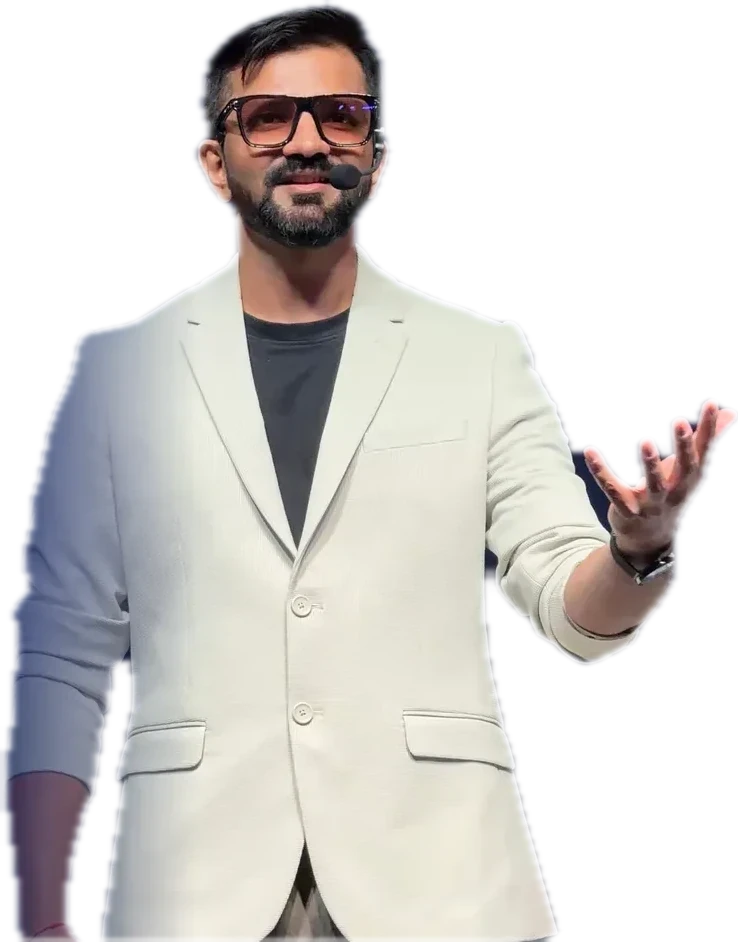
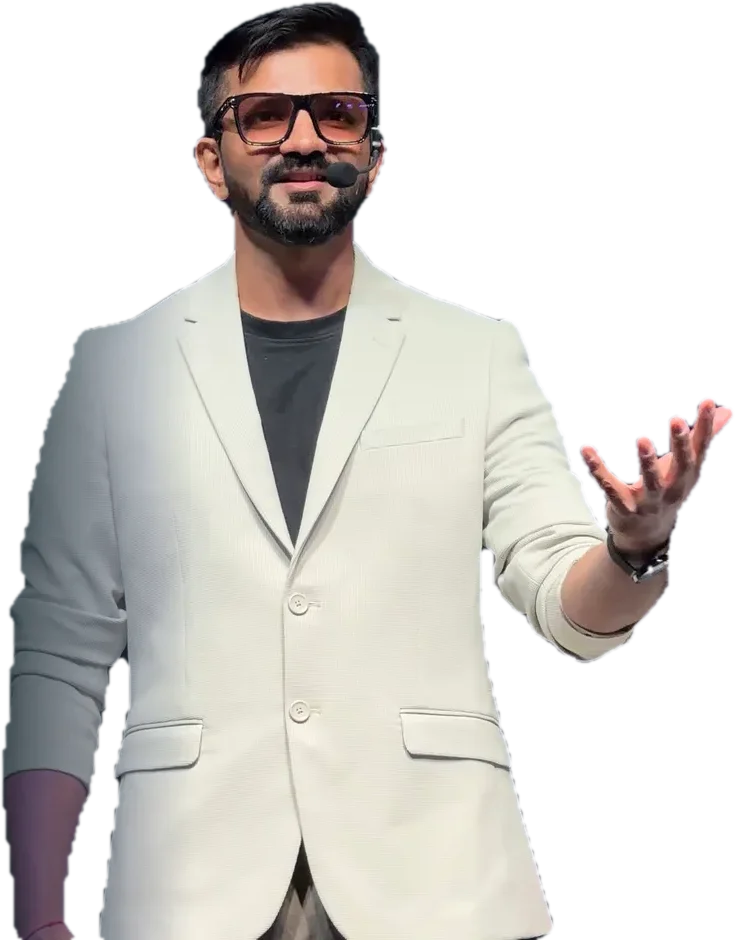
Try: clean white-blazer cut-out on the cover; event cut-outs placed beside him, never over him (local only)

diff --git a/assets/css/main.css b/assets/css/main.css
@@ -976,7 +976,7 @@ body.on-cover .site-header:not(.is-scrolled) .menu-btn { background: rgb(243 237
   .cover__stamps li { text-align: right; }
   .cover__hint { position: absolute; right: var(--gutter); top: calc(var(--band) + var(--cv-s3) + 38px); max-width: 15rem; margin: 0; text-align: right; font-size: var(--cv-s0); }
 
-  .cover__host { position: absolute; left: 50%; bottom: 0; translate: -50% 0; margin: 0; height: min(75svh, 56vw); width: auto; aspect-ratio: 738 / 942; }
+  .cover__host { position: absolute; left: 50%; bottom: 0; translate: -50% 0; margin: 0; height: min(75svh, 56vw); width: auto; aspect-ratio: 735 / 940; }
   .js .cover-loading .cover__host { translate: -50% 5%; }
   .cover__hostlink, .cover__hostlink img { height: 100%; width: auto; }
   .cover__hostlink .cover__label { bottom: 26px; }
@@ -984,11 +984,16 @@ body.on-cover .site-header:not(.is-scrolled) .menu-btn { background: rgb(243 237
 
   .cover__pick { position: absolute; inset: auto var(--gutter) 0; height: 47svh; margin: 0; pointer-events: none; }
   .cover__doors { display: block; position: absolute; inset: 0; }
-  .cover__doors li { position: absolute; bottom: 0; width: 20%; height: 84%; pointer-events: auto; }
-  .cover__doors li:nth-child(1) { left: 0; }
-  .cover__doors li:nth-child(2) { left: 17.5%; height: 90%; }
-  .cover__doors li:nth-child(3) { right: 17.5%; height: 90%; }
-  .cover__doors li:nth-child(4) { right: 0; }
+  /* the four events stand either side of him, placed from his edges (never over him); main.js shrinks them (--ds) when a screen is too narrow for both */
+  .cover { --hw: calc(min(75svh, 56vw) * .391); --gap: 14px; }
+  .cover__doors li { position: absolute; bottom: 0; width: auto; height: calc(84% * var(--ds, 1)); aspect-ratio: var(--ar); pointer-events: auto; }
+  .cover__doors li:nth-child(1) { --ar: 597 / 914; right: calc(50% + var(--hw) + var(--gap) + var(--o1, 14svh)); }
+  .cover__doors li:nth-child(2) { --ar: 529 / 987; right: calc(50% + var(--hw) + var(--gap)); height: calc(90% * var(--ds, 1)); z-index: 1; }
+  .cover__doors li:nth-child(3) { --ar: 398 / 1033; left: calc(50% + var(--hw) + var(--gap)); height: calc(90% * var(--ds, 1)); z-index: 1; }
+  .cover__doors li:nth-child(4) { --ar: 511 / 977; left: calc(50% + var(--hw) + var(--gap) + var(--o4, 10svh)); }
+  .cover__doors li:nth-child(1) .cover__label { left: 0; translate: none; }
+  .cover__doors li:nth-child(4) .cover__label { left: auto; right: 0; translate: none; }
+  .cover--stagger .cover__doors li:is(:nth-child(1), :nth-child(4)) .cover__label { bottom: 72px; }
   .cover__doors li:nth-child(n) .cover__door { height: 100%; background: none; overflow: visible; border-radius: 0; }
   .cover__door img { bottom: 0; height: 100%; }
   .cover__door .cover__label { bottom: 26px; }

diff --git a/assets/js/main.js b/assets/js/main.js
@@ -373,6 +373,31 @@
       let size = (room / line) * 100;
       size = wide.matches ? Math.min(size * 0.965, innerHeight * 0.24) : size * 0.9;
       cover.style.setProperty('--name-size', `${size.toFixed(1)}px`);
+      // the events either side of him: placed from his edges, spaced apart when there is room,
+      // tucked behind each other when there is less, and only shrunk (--ds) when even that does not fit
+      if (wide.matches) {
+        const H = innerHeight;
+        const hw = Math.min(0.75 * H, 0.56 * innerWidth) * 0.391;
+        const side = $('.cover__pick', cover).getBoundingClientRect().width / 2 - hw - 14;
+        const w = [0.84 * 0.47 * H * 597 / 914, 0.9 * 0.47 * H * 529 / 987, 0.9 * 0.47 * H * 398 / 1033, 0.84 * 0.47 * H * 511 / 977];
+        // ...and their heads stay below the Book / Watch buttons and the "choose your event" line
+        const above = Math.max(...['.cover__actions', '.cover__hint'].map((q) => { const e = $(q, cover); return e ? e.offsetTop + e.offsetHeight : 0; }));
+        const room = cover.offsetHeight - above - 18;
+        const ds = Math.min(1, side / (w[0] + 0.62 * w[1]), side / (w[3] + 0.62 * w[2]), room / (0.9 * 0.47 * H));
+        const place = (outer, inner) => Math.max(0.62 * inner * ds, Math.min(inner * ds + 16, side - outer * ds));
+        cover.style.setProperty('--ds', ds.toFixed(3));
+        cover.style.setProperty('--o1', `${place(w[0], w[1]).toFixed(1)}px`);
+        cover.style.setProperty('--o4', `${place(w[3], w[2]).toFixed(1)}px`);
+        // two labels meeting: lift the outer ones above the inner ones
+        cover.classList.toggle('cover--stagger', false);
+        const lab = $$('.cover__door .cover__label', cover).map((l) => l.getBoundingClientRect());
+        cover.classList.toggle('cover--stagger', lab[0].right > lab[1].left - 8 || lab[2].right > lab[3].left - 8);
+        // the mic beside his head never runs into the "11+ years" stamp
+        const mic = $('.cover__mic', cover);
+        mic.style.marginLeft = '0px';
+        const clash = mic.getBoundingClientRect().right + 12 - $('.cover__stamps', cover).getBoundingClientRect().left;
+        if (clash > 0) mic.style.marginLeft = `${-Math.min(clash, 70).toFixed(0)}px`;
+      }
     };
     fit();
     addEventListener('resize', fit);

diff --git a/index.html b/index.html
@@ -33,7 +33,7 @@
   <link rel="preload" href="./assets/fonts/playfair-latin.woff2" as="font" type="font/woff2" crossorigin>
   <link rel="preload" href="./assets/fonts/playfair-italic-latin.woff2" as="font" type="font/woff2" crossorigin>
   <link rel="preload" as="image" href="./assets/img/cover/love-blazer.webp" fetchpriority="high">
-  <link rel="stylesheet" href="./assets/css/main.css?v=74a49363">
+  <link rel="stylesheet" href="./assets/css/main.css?v=b268ade3">
   <script>document.documentElement.classList.add('js');setTimeout(function(){var b=document.body;if(b&&b.classList.contains('cover-loading')){b.classList.remove('cover-loading');var o=document.querySelector('[data-cover-opener]');if(o)o.style.display='none';}},6000)</script>
 
   <script type="application/ld+json">
@@ -170,7 +170,7 @@
 
       <div class="cover__host" data-cover-host>
         <a class="cover__hostlink" href="#about" aria-label="Meet RJ Love">
-          <img src="./assets/img/cover/love-blazer.webp" width="738" height="942" fetchpriority="high" decoding="async"
+          <img src="./assets/img/cover/love-blazer.webp" width="735" height="940" fetchpriority="high" decoding="async"
                alt="RJ Love Shah in a white blazer with a headset microphone, one hand open towards the audience">
           <span class="cover__label">Meet RJ Love</span>
         </a>
@@ -791,6 +791,6 @@
 
   <script src="https://cdnjs.cloudflare.com/ajax/libs/gsap/3.12.5/gsap.min.js" defer></script>
   <script src="https://cdnjs.cloudflare.com/ajax/libs/gsap/3.12.5/ScrollTrigger.min.js" defer></script>
-  <script src="./assets/js/main.js?v=27999cad" defer></script>
+  <script src="./assets/js/main.js?v=871b8c63" defer></script>
 </body>
 </html>

diff --git a/events/navratri/index.html b/events/navratri/index.html
@@ -23,7 +23,7 @@
   <meta name="twitter:card" content="summary_large_image">
   <meta name="twitter:image" content="https://www.rjloveshah.com/assets/img/share-rj-love-shah-3.jpg">
   <link rel="preload" href="../../assets/fonts/playfair-latin.woff2" as="font" type="font/woff2" crossorigin>
-  <link rel="stylesheet" href="../../assets/css/main.css?v=74a49363">
+  <link rel="stylesheet" href="../../assets/css/main.css?v=b268ade3">
   <script type="application/ld+json">{"@context":"https://schema.org","@type":"BreadcrumbList","itemListElement":[{"@type":"ListItem","position":1,"name":"Home","item":"https://www.rjloveshah.com/"},{"@type":"ListItem","position":2,"name":"Reliance Navratri","item":"https://www.rjloveshah.com/events/navratri/"}]}</script>
 </head>
 <body class="event-page on-cover">

diff --git a/events/corporate/index.html b/events/corporate/index.html
@@ -23,7 +23,7 @@
   <meta name="twitter:card" content="summary_large_image">
   <meta name="twitter:image" content="https://www.rjloveshah.com/assets/img/share-rj-love-shah-3.jpg">
   <link rel="preload" href="../../assets/fonts/playfair-latin.woff2" as="font" type="font/woff2" crossorigin>
-  <link rel="stylesheet" href="../../assets/css/main.css?v=74a49363">
+  <link rel="stylesheet" href="../../assets/css/main.css?v=b268ade3">
   <script type="application/ld+json">{"@context":"https://schema.org","@type":"BreadcrumbList","itemListElement":[{"@type":"ListItem","position":1,"name":"Home","item":"https://www.rjloveshah.com/"},{"@type":"ListItem","position":2,"name":"Corporate shows","item":"https://www.rjloveshah.com/events/corporate/"}]}</script>
 </head>
 <body class="event-page">

diff --git a/events/weddings/index.html b/events/weddings/index.html
@@ -23,7 +23,7 @@
   <meta name="twitter:card" content="summary_large_image">
   <meta name="twitter:image" content="https://www.rjloveshah.com/assets/img/share-rj-love-shah-3.jpg">
   <link rel="preload" href="../../assets/fonts/playfair-latin.woff2" as="font" type="font/woff2" crossorigin>
-  <link rel="stylesheet" href="../../assets/css/main.css?v=74a49363">
+  <link rel="stylesheet" href="../../assets/css/main.css?v=b268ade3">
   <script type="application/ld+json">{"@context":"https://schema.org","@type":"BreadcrumbList","itemListElement":[{"@type":"ListItem","position":1,"name":"Home","item":"https://www.rjloveshah.com/"},{"@type":"ListItem","position":2,"name":"Luxury weddings","item":"https://www.rjloveshah.com/events/weddings/"}]}</script>
 </head>
 <body class="event-page">

diff --git a/events/sports/index.html b/events/sports/index.html
@@ -23,7 +23,7 @@
   <meta name="twitter:card" content="summary_large_image">
   <meta name="twitter:image" content="https://www.rjloveshah.com/assets/img/share-rj-love-shah-3.jpg">
   <link rel="preload" href="../../assets/fonts/playfair-latin.woff2" as="font" type="font/woff2" crossorigin>
-  <link rel="stylesheet" href="../../assets/css/main.css?v=74a49363">
+  <link rel="stylesheet" href="../../assets/css/main.css?v=b268ade3">
   <script type="application/ld+json">{"@context":"https://schema.org","@type":"BreadcrumbList","itemListElement":[{"@type":"ListItem","position":1,"name":"Home","item":"https://www.rjloveshah.com/"},{"@type":"ListItem","position":2,"name":"Sports events","item":"https://www.rjloveshah.com/events/sports/"}]}</script>
 </head>
 <body class="event-page">
